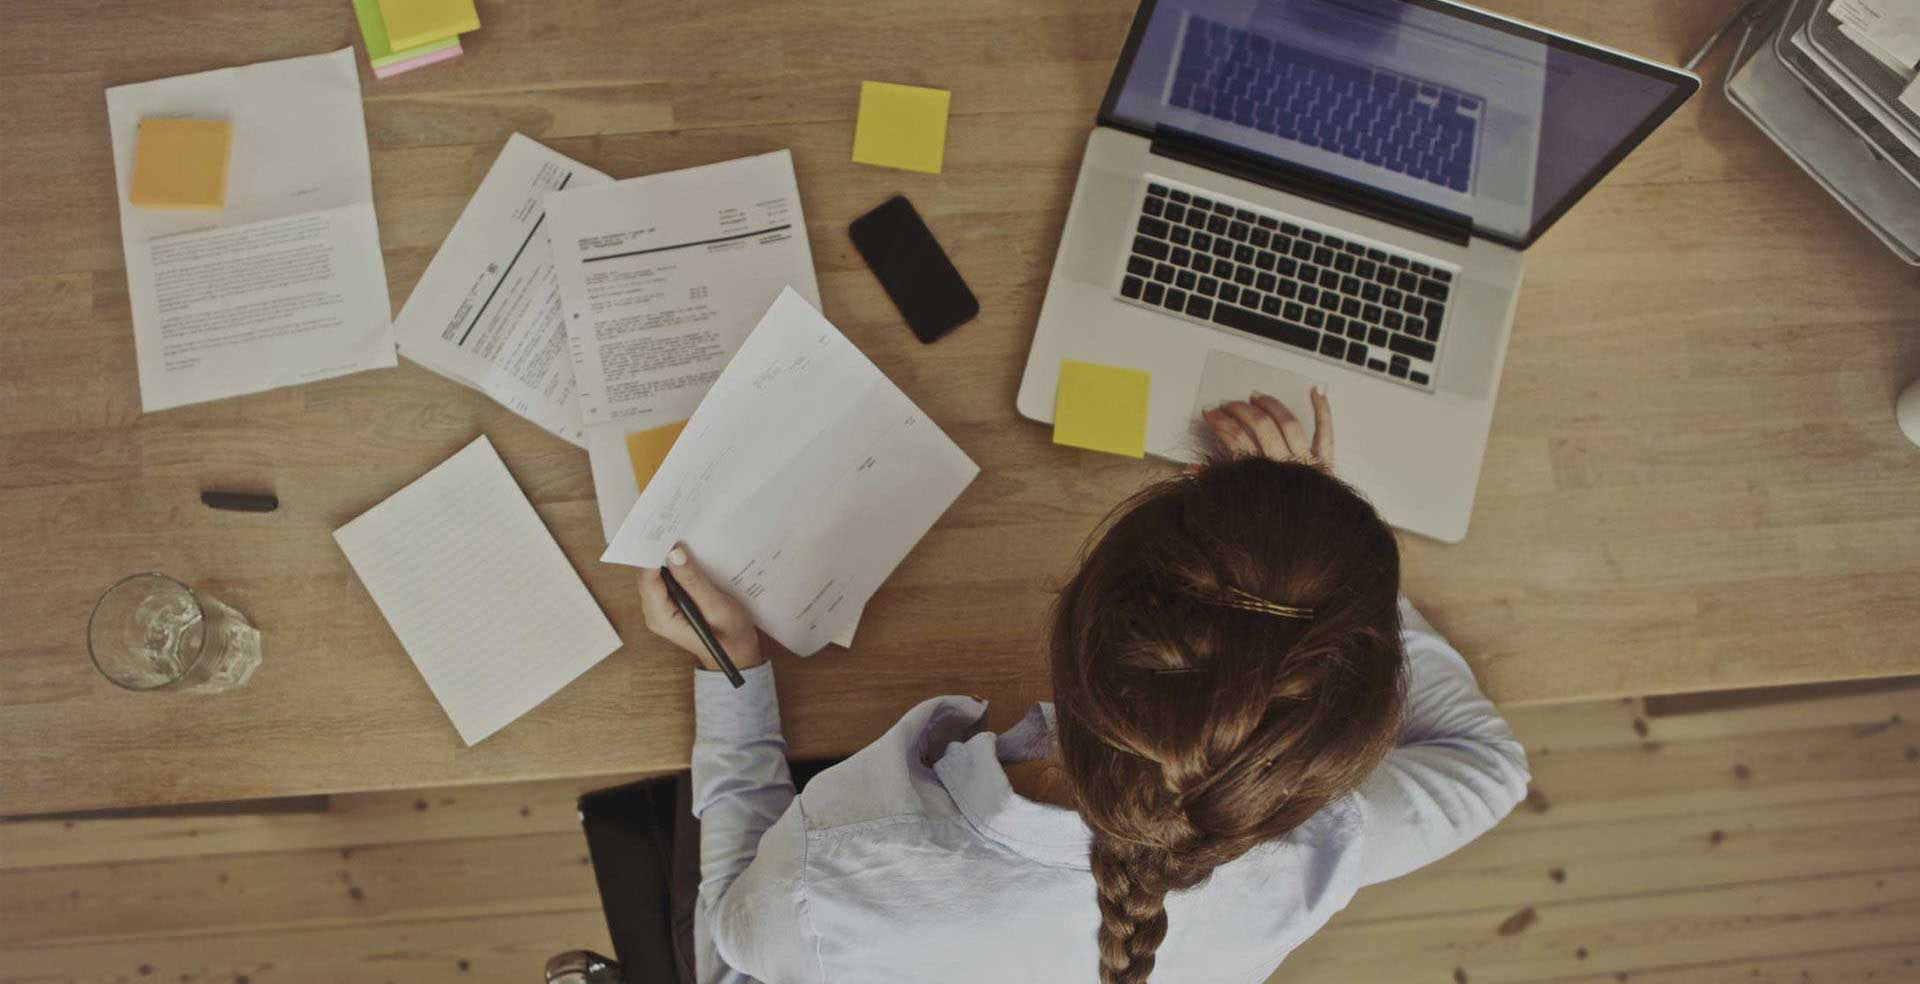
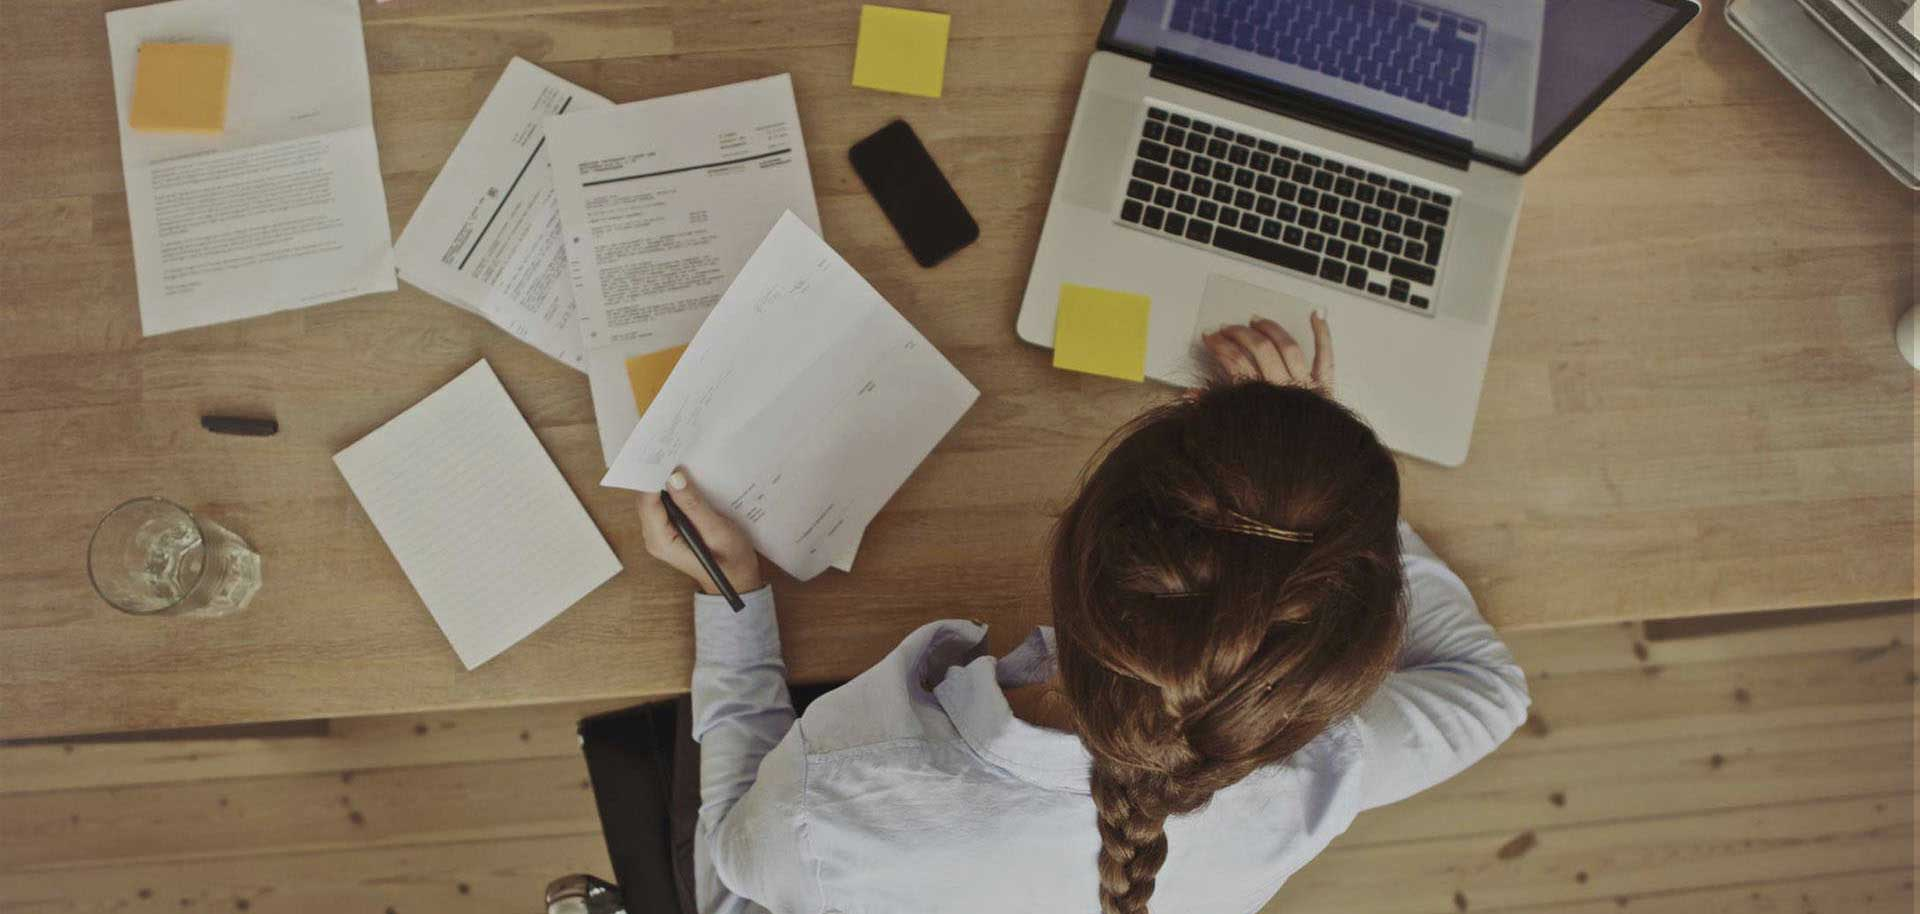
fixed wrapelements bug with hotspot on image, changed header backround picture, fixed outline in mozilla

diff --git a/css/styles.less b/css/styles.less
@@ -35,60 +35,73 @@ menu, nav, section, summary, mark, audio, video {
     -webkit-tap-highlight-color: rgba(255, 255, 255, 0);
     -webkit-tap-highlight-color: transparent;
 }
+
 img {
     border: 0;
     -ms-interpolation-mode: bicubic;
     width: auto !important;
     vertical-align: middle;
 }
+
 article, aside, details, figcaption, figure,
 footer, header, hgroup, menu, nav, section {
     display: block;
 }
+
 button::-moz-focus-inner,
 input::-moz-focus-inner {
     padding: 0;
     border: 0;
 }
+
 input, button, select, textarea {
     font-size: inherit;
     font-family: inherit;
     line-height: inherit;
 }
+
 ul {
     &.unstyled {
         padding-left: 0;
         list-style: none;
     }
 }
+
 li {
     list-style-position: inside;
 }
+
 * {
     -moz-box-sizing: border-box;
     -webkit-box-sizing: border-box;
     box-sizing: border-box;
 }
+
 :focus,
 :active {
     outline: none;
 }
+
 a {
     outline: 0;
     text-decoration: none;
+
     &:focus {
         text-decoration: none;
     }
 }
+
 a:hover,
-    a:active {
+a:active {
     outline: 0;
 }
+
 html, body {
     width: 100%;
     height: 100%;
     font-family: 'roboto-regular','OpenSans';
 }
+
 html {
     -ms-text-size-adjust: 100%;
     -webkit-text-size-adjust: 100%;
@@ -96,6 +109,7 @@ html {
     overflow-x: auto;
     overflow-y: scroll;
 }
+
 body {
     -moz-user-select: none;
     -ms-user-select: none;
@@ -109,17 +123,21 @@ body {
     cursor: default;
     word-wrap: break-word;
 }
+
 h1, h2, h3 {
     line-height: 1.2;
 }
+
 h1, h2 {
     text-align: center;
     font-weight: 300;
 }
+
 .title {
     display: table;
     width: 100%;
     table-layout: fixed;
+
     h1 {
         vertical-align: bottom;
         padding: 20px 70px 200px 70px;
@@ -134,12 +152,14 @@ h1, h2 {
         word-wrap: break-word;
     }
 }
+
 h2 {
     color: #3c3c3c;
     text-transform: uppercase;
     font-size: 16px;
     font-family: 'robotoSlab-regular';
 }
+
 h3 {
     color: #3c3c3c;
     text-transform: uppercase;
@@ -147,18 +167,22 @@ h3 {
     font-size: 14px;
     font-family: 'robotoSlab-regular';
 }
+
 h4 {
     color: #3c3c3c;
     font-weight: normal;
     font-size: 14px;
     font-family: 'robotoSlab-regular';
 }
+
 img[style*='right'] {
     margin-left: 20px;
 }
+
 img[style*='left'] {
     margin-right: 20px;
 }
+
 hr {
     -moz-box-sizing: content-box;
     box-sizing: content-box;
@@ -169,25 +193,29 @@ hr {
     border-top: 3px solid #9ad3d6;
     border-bottom: 1px solid #fcfdfd;
 }
+
 .title-background {
     background-image: url(../images/header-bg.jpg);
     background-repeat: no-repeat;
     background-size: cover;
     width: 100%;
     display: table;
-    background-position:0px -75px
+    background-position: 0px 0;
 }
+
 .container {
     -moz-box-sizing: border-box;
     -webkit-box-sizing: border-box;
     box-sizing: border-box;
     margin: 15px auto 0;
 }
+
 .introduction {
     .content {
         border-bottom: 3px solid #9ad3d6;
     }
 }
+
 .content {
     padding: 30px 30px;
     border-bottom: 3px solid #9ad3d6;
@@ -203,11 +231,14 @@ hr {
     margin-bottom: 30px;
     word-wrap: break-word;
 }
+
 .pull-right {
     float: right;
 }
+
 .clearfix {
     clear: both;
+
     &:after {
         display: block;
         visibility: hidden;
@@ -216,12 +247,14 @@ hr {
         content: " ";
     }
 }
+
 .progress-bar {
     overflow: hidden;
     -ms-border-radius: 2px;
     border-radius: 5px;
     background-color: #dadada;
 }
+
 .progress-bar-value {
     -moz-user-select: none;
     -ms-user-select: none;
@@ -234,10 +267,12 @@ hr {
     font-weight: bold;
     cursor: default;
     border-radius: 4px;
+
     &:empty {
         content: " ";
     }
 }
+
 .progress-text-wrapper {
     text-align: center;
     font-family: 'robotoSlab-light','OpenSans';
@@ -246,15 +281,18 @@ hr {
     color: #9e9e9e;
     font-size: 18px;
 }
+
 .view {
     margin: -180px 0;
     padding-bottom: 40px;
 }
+
 .view-header {
     position: relative;
     margin: 0 auto 30px;
     height: 180px;
     text-align: center;
+
     h2 {
         position: absolute;
         bottom: 15px;
@@ -271,14 +309,17 @@ hr {
         text-align: left;
     }
 }
+
 .modalBlockout {
     background-color: white !important;
     -ms-opacity: 0.9 !important;
     opacity: 0.9 !important;
 }
+
 .overlay-wrapper {
     position: relative;
 }
+
 .overlay {
     bottom: 0;
     left: 0;
@@ -289,8 +330,14 @@ hr {
 }
 
 /*#region hotspot on an image*/
-.tl-wrapper{
+.tl-wrapper {
     font: 16px 'OpenSans';
     color: #fff;
 }
 /*#endregion hotspot on an image*/
+
+@media (max-width: 700px) {
+    .title h1 {
+        padding: 20px 20px 200px;
+    }
+}

diff --git a/app/studying/viewmodels/studyadvice.js b/app/studying/viewmodels/studyadvice.js
@@ -21,7 +21,7 @@
             viewModel.learntObjectives = [];
             viewModel.objectivesToLearn = [];
 
-            _.each(course.objectives, function (objective) {
+            _.each(course.objectives, function (objective,index) {
 
                 var objectiveViewModel = {
                     id: objective.id,
@@ -38,7 +38,7 @@
                             return { id: question.id, title: question.title };
                         })
                         .value(),
-                    isExpanded: ko.observable(false),
+                    isExpanded: ko.observable(index===0),
                     toggleExpand: function(){
                         this.isExpanded(!this.isExpanded());
                     },

diff --git a/app/_components/bindingHandlers/learningContentBindingHandler.js b/app/_components/bindingHandlers/learningContentBindingHandler.js
@@ -1,4 +1,4 @@
-define(['durandal/composition'], function (composition) {
+define(['durandal/composition','knockout'], function (composition, ko) {
     'use strict';
     
     return {
@@ -22,8 +22,7 @@ define(['durandal/composition'], function (composition) {
                     default:
                         $element.css('overflow-x', 'auto');
                         $element.html(html);
-                        return wrapElements.init(element, valueAccessor);
-                        break;
+                        return ko.bindingHandlers.wrapElements.init(element, valueAccessor);
                 }
             }
         };

diff --git a/settings.js b/settings.js
@@ -4,7 +4,6 @@
     },
     "xApi": {
         "enabled": true,
-        "required":true,
         "lrs": {
             "uri": "http://cloud.scorm.com/ScormEngineInterface/TCAPI/public/statements/",
             "credentials": {

diff --git a/css/xApi.less b/css/xApi.less
@@ -1,4 +1,7 @@
-.xApi-login .content {
+input:invalid{
+    box-shadow:none;
+}
+.xApi-login .content {
     border-color: @xApi-container-border-color;
 }
 
